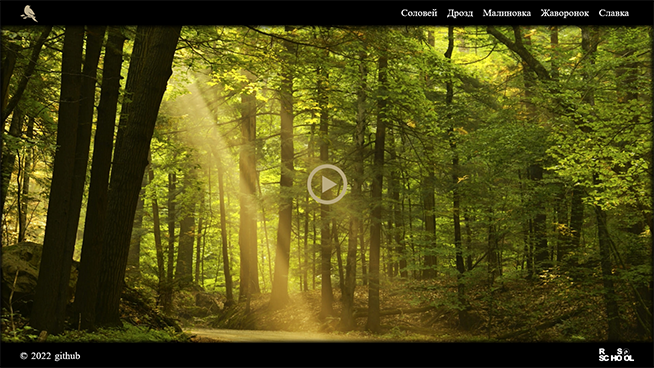
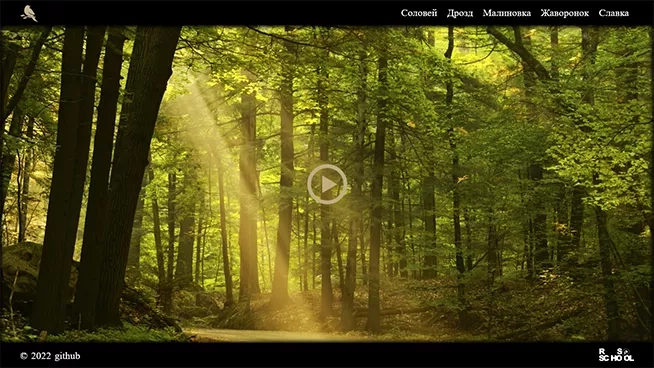
refactor: optimized images

diff --git a/style.css b/style.css
@@ -470,16 +470,16 @@ pre {
   overflow: hidden;
   font-family: montserrat, sans-serif;
   font-size: 14px;
-  max-height: auto;
+  height: auto;
   position: relative;
   /* aspect-ratio: attr(width) / attr(height); */
 }
 
 .portfolio-image {
   /* display: block; */
-  max-width: 100%;
-  max-height: 100%;
-  aspect-ratio: attr(width) / attr(height);
+  max-width: 654px;
+  max-height: 173px;
+  /* aspect-ratio: attr(width) / attr(height); */
 }
 
 .overlay {
@@ -560,11 +560,16 @@ pre {
   font-weight: 300;
 }
 
+.home-container-img {
+  max-width: 100%;
+  height: auto;
+}
+
 .home-img {
   /* width: 627.2px; */
   /* height: 480.6px; */
-  max-width: 100%;
-  height: auto;
+  max-width: 800px;
+  max-height: 613px;
 }
 
 .home-left-container-welcome {
@@ -584,8 +589,8 @@ pre {
 }
 
 .git-link {
-  max-width: 30px;
-  height: auto;
+  width: 30px;
+  height: 30px;
 }
 
 .git-link:hover {
@@ -605,8 +610,8 @@ pre {
 }
 
 .logo-avatar {
-    max-width: 42px;
-    height: auto;
+    width: 42px;
+    height: 42px;
     -webkit-filter: grayscale(100%);
     -moz-filter: grayscale(100%);
     -ms-filter: grayscale(100%);
@@ -752,8 +757,8 @@ pre {
 }
 
 .languages-switch {
-    max-width: 50px;
-    height: auto;
+    width: 50px;
+    height: 30px;
     cursor: pointer;
     border: 1px solid rgba(47, 50, 57, .2);
 }
@@ -1001,13 +1006,13 @@ pre {
     -webkit-transform: translate(0px, 0px) rotate(0deg);
   }
   .portfolio-item {
-    /* max-width: 335.9px;
-    max-height: 238.4px; */
+    max-width: 335.9px;
+    /* max-height: 238.4px; */
   }
   .portfolio-image {
-    max-width:335.9px;
-    height:auto;
-    aspect-ratio: attr(width) / attr(height);
+    /* max-width:335.9px;
+    height:auto; */
+    /* aspect-ratio: attr(width) / attr(height); */
   }
   .main-container,
   .footer-container,
@@ -1027,7 +1032,7 @@ pre {
     font-size: 22.5px;
   }
   .languages-switch {
-    width: 40px;
+    width: 37px;
     height: 25px;
   }
   .git-link {
@@ -1062,7 +1067,7 @@ pre {
     font-size: 19.5px;
   }
   .languages-switch {
-    width: 30px;
+    width: 29px;
     height: 20px;
   }
   .git-link {

diff --git a/script.js b/script.js
@@ -161,7 +161,7 @@ function goTop() {
 
 switcher.addEventListener('click', () => {
   if (switcher.classList.contains('en')) {
-    switcher.src = './images/other.png';
+    switcher.src = './images/other.webp';
     switcher.classList.remove('en');
     switcher.classList.add('ru');
     switcher.title = 'Russian language';
@@ -171,7 +171,7 @@ switcher.addEventListener('click', () => {
     homeTitle.style.fontFamily = 'Shlapak Script';
 
   } else if (switcher.classList.contains('ru')) {
-    switcher.src = './images/uk.png';
+    switcher.src = './images/uk.webp';
     switcher.classList.add('en');
     switcher.classList.remove('ru');
     switcher.title = 'English language';

diff --git a/index.html b/index.html
@@ -21,7 +21,7 @@
 						</div>
 						<div class="home-left-container-links">
 							<img class="languages-switch en" src="./images/uk.webp" title="English language" alt="English language" data-i18lan="en"/>
-							<a class="link-git" href="https://github.com/anthony-th"><img class="git-link" src="./images/git.webp" title="" alt="Anthony-th github	"/>Anthony-th</a>
+							<a class="link-git" href="https://github.com/anthony-th"><img class="git-link" src="./images/git.webp" title="" alt="Anthony-th github"/>Anthony-th</a>
 						</div>
 					</div>
 				</div>
